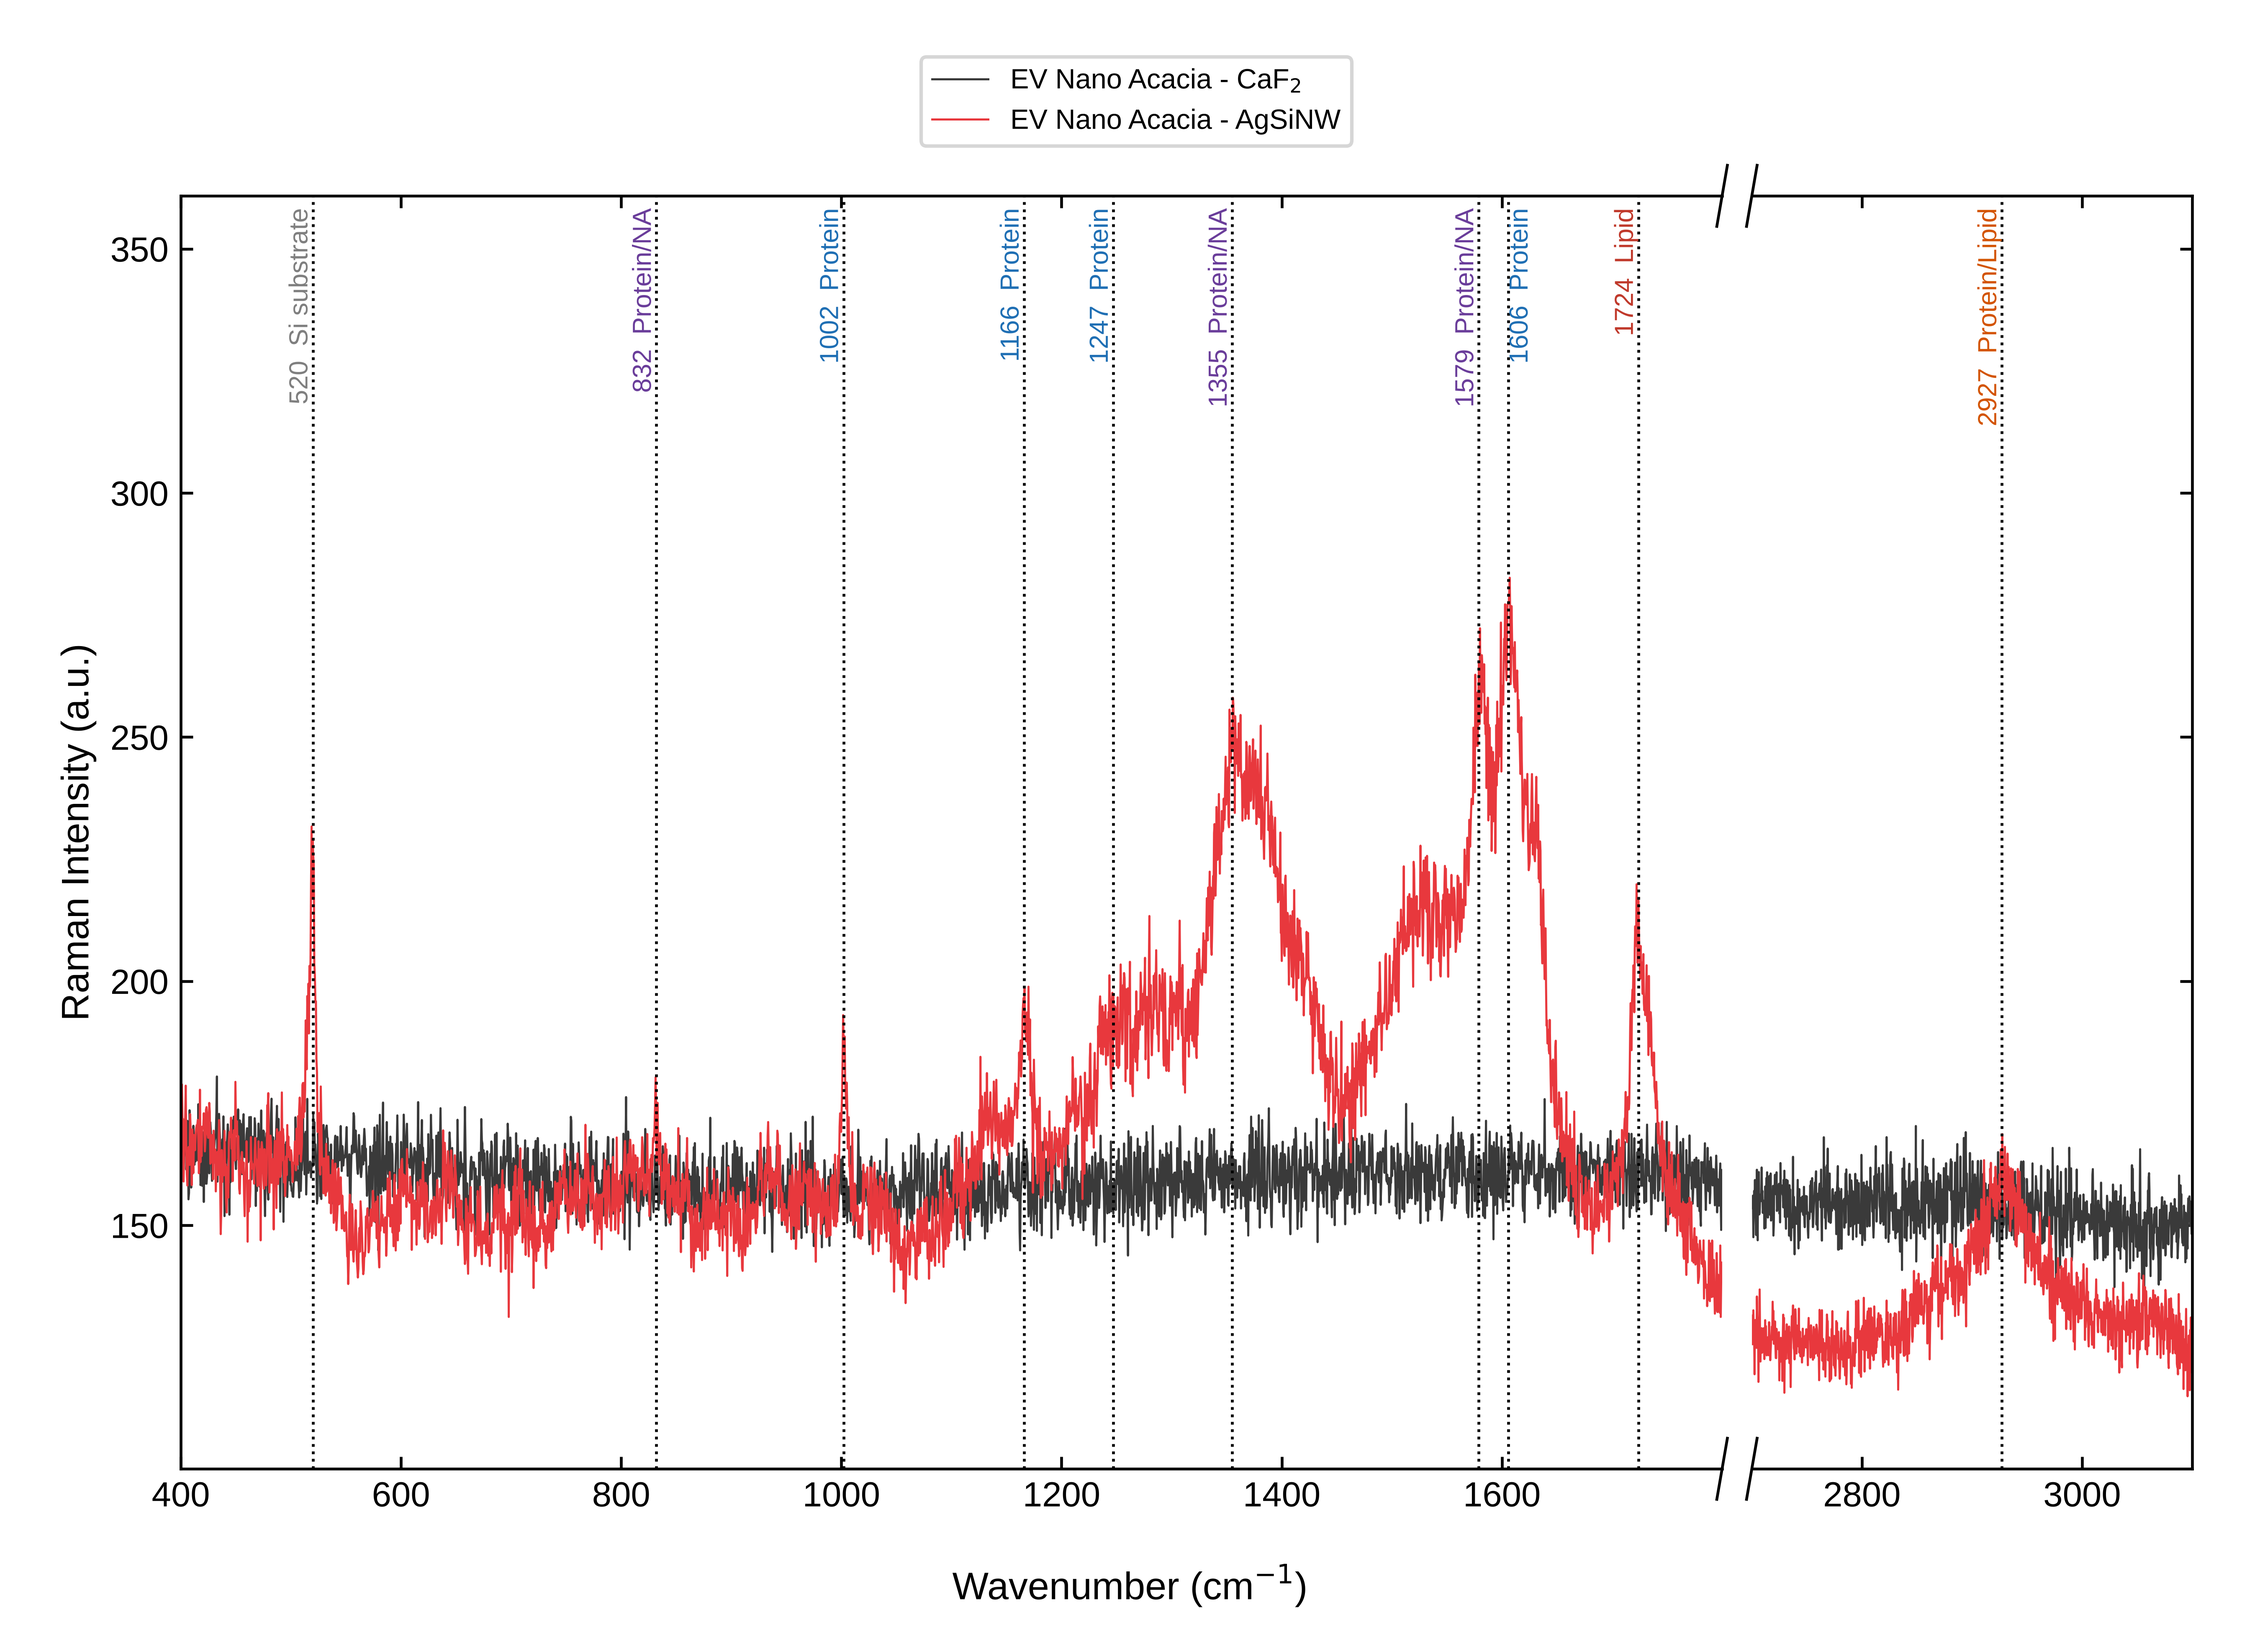
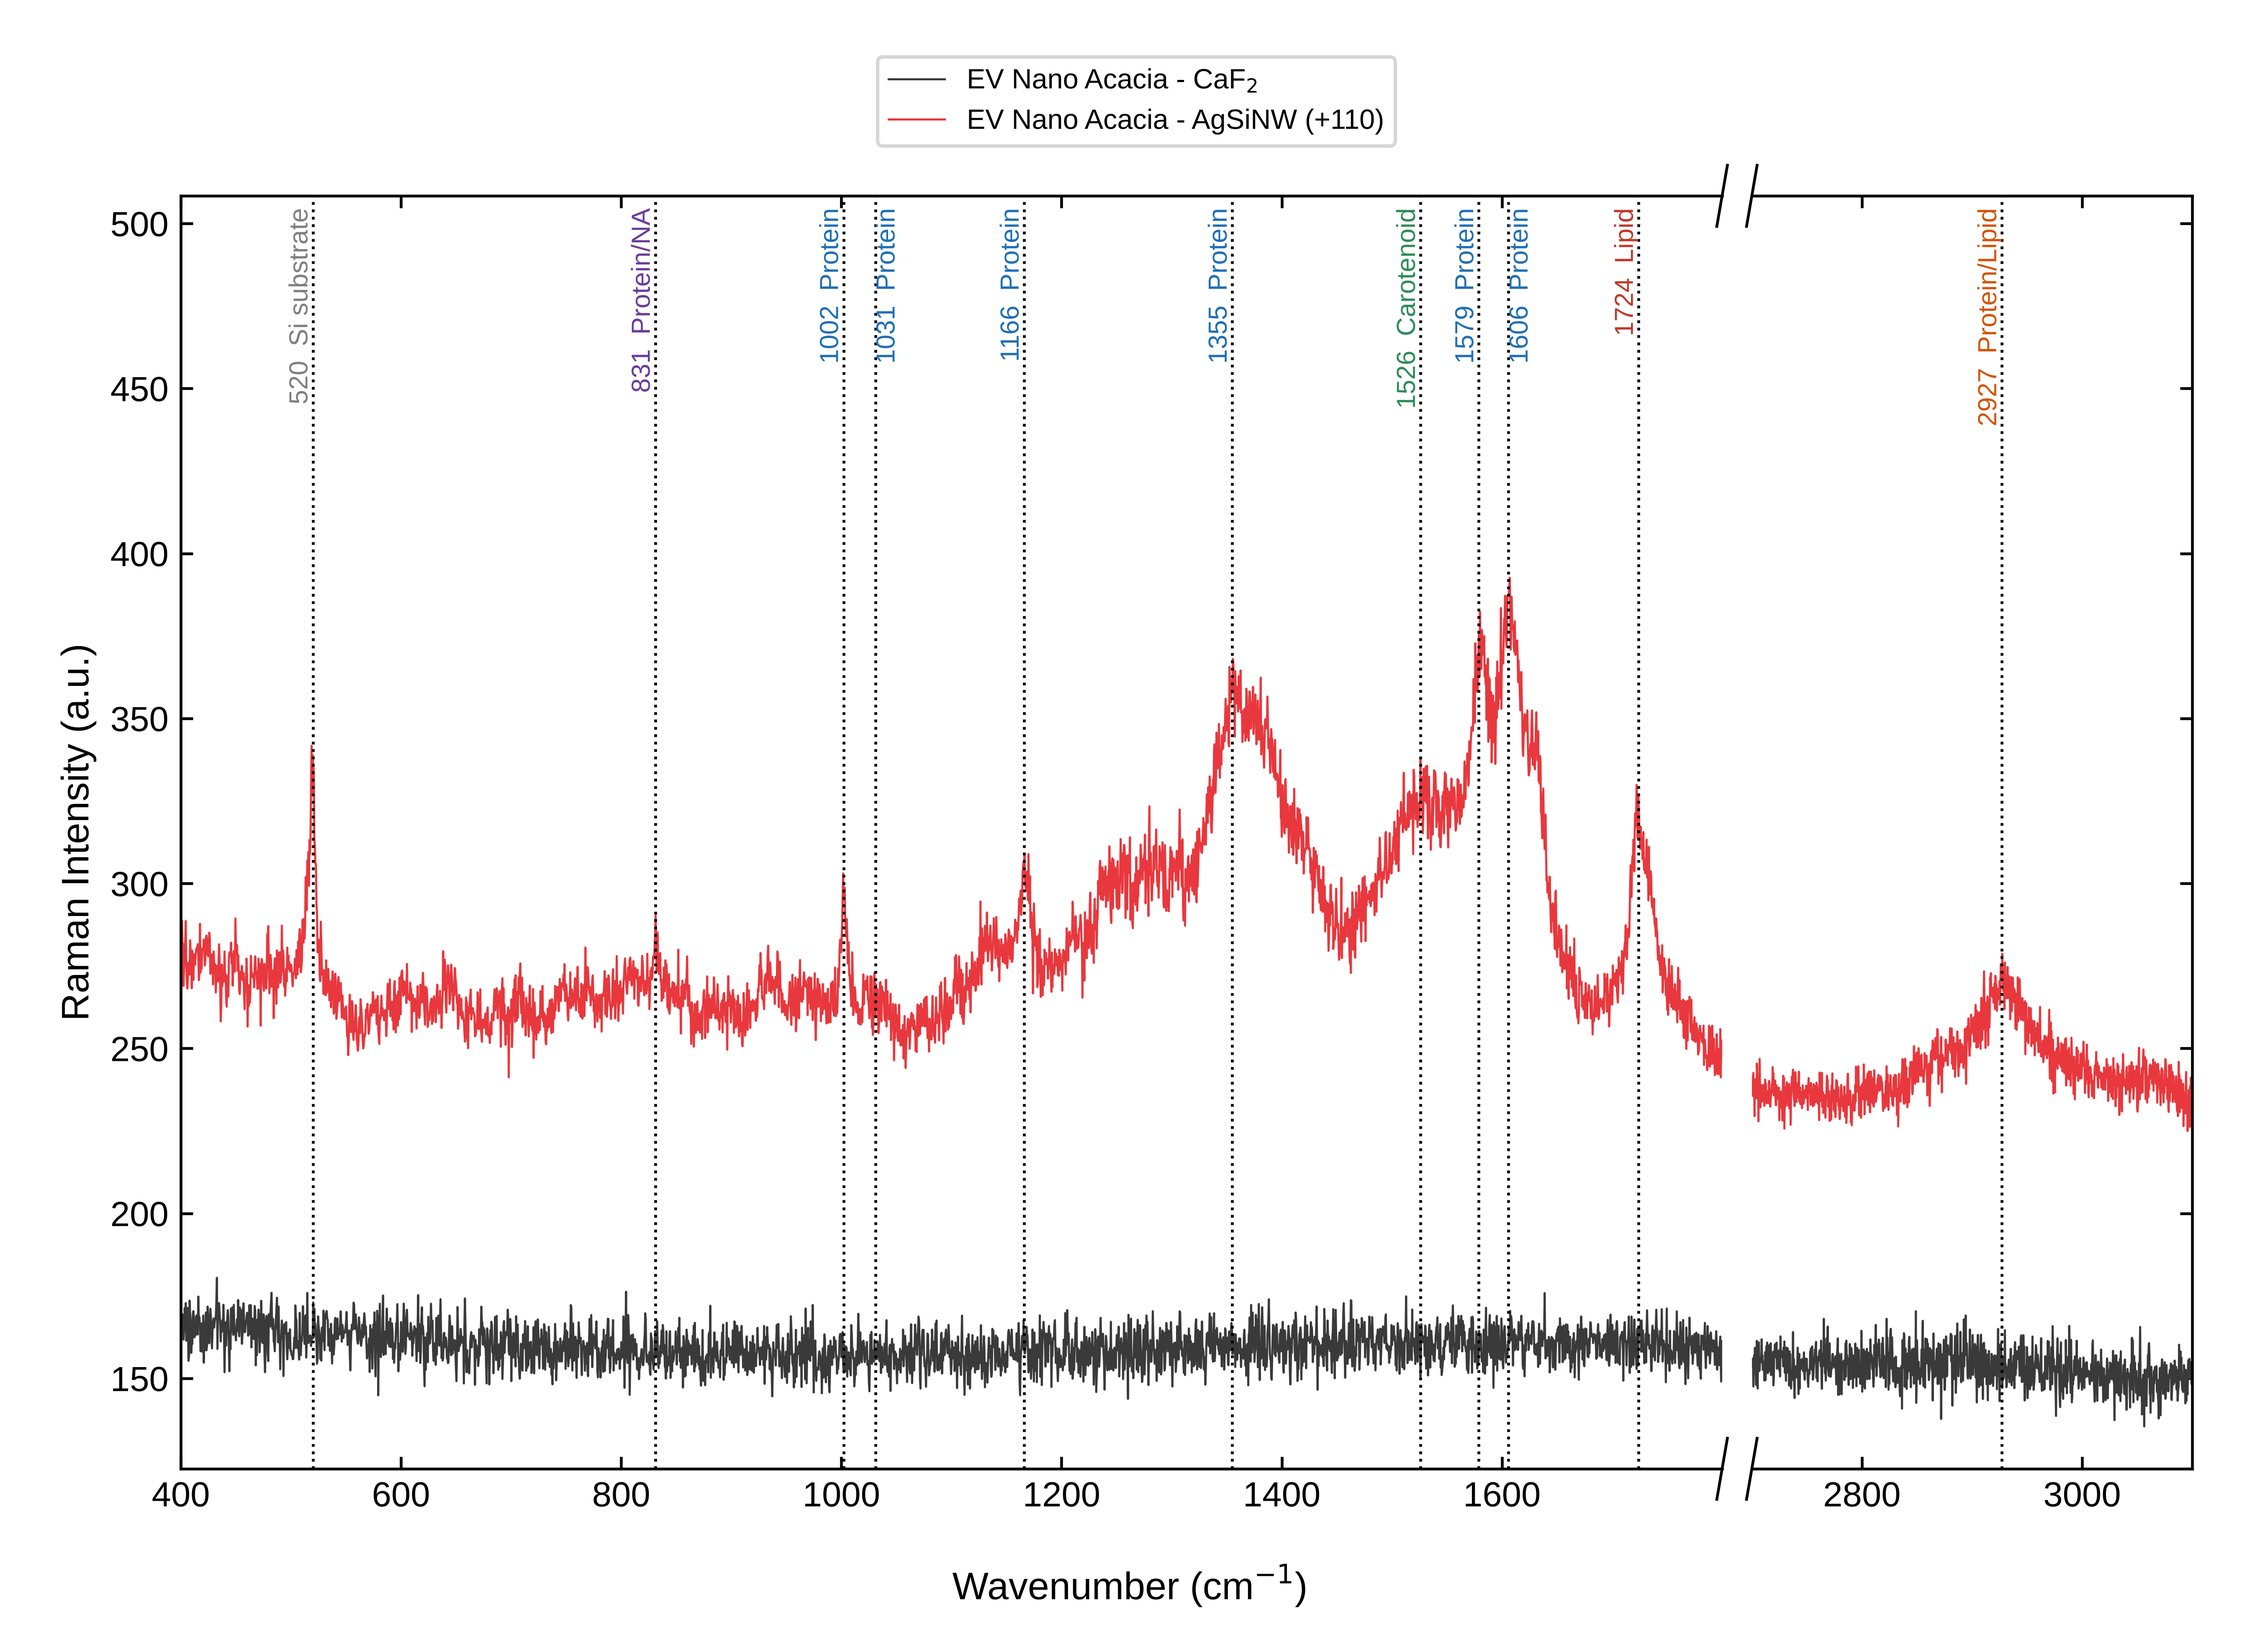
Match S2 figure to S1 paper style; use S2 peak set, declared AgSiNW offset
Claude-Session: https://claude.ai/code/session_01L8hQ8e5u5KmaH4dD9snyRw

diff --git a/EV_Acacia_TwoSpectra.py b/EV_Acacia_TwoSpectra.py
@@ -68,17 +68,20 @@ PEAK_SETS['S1'] = [
     (2936, 'Protein/Lipid', 'CH3 symmetric stretching (2930-2940), mainly proteins', '[P][M][C][G]'),
 ]
 PEAK_SETS['S2'] = [
-    (520,  'Si substrate',  'Crystalline silicon optical phonon (520.7 cm-1 Si band); from SiNW', '[P]'),
-    (831,  'Protein/NA',    'Tyrosine Fermi doublet (828/850) / O-P-O asymmetric stretch (828)', '[M][T]'),
-    (1003, 'Protein',       'Phenylalanine symmetric ring breathing (1002-1004)', '[M][T][G]'),
-    (1166, 'Protein',       'Tyrosine C-H in-plane bending (1170-1175) / C-C, C-N stretch of proteins', '[M][T]'),
-    (1255, 'Protein',       'Amide III (1230-1300)', '[M][T][G]'),
-    (1355, 'Protein/NA',    'Tryptophan (1340-1360) / adenine-guanine ring (1340); broad band', '[M][T]'),
-    (1581, 'Protein/NA',    'Phenylalanine C=C bending (1584) / adenine-guanine ring (1578)', '[M][T]'),
-    (1607, 'Protein',       'Phenylalanine / tyrosine ring C=C stretch (1605-1607)', '[M][T][G]'),
-    (1723, 'Lipid',         'C=O ester stretching of (phospho)lipids (1720-1745)', '[M][T][C]'),
-    (2927, 'Protein/Lipid', 'CH2/CH3 stretching (2925-2935)', '[P][M][C][G]'),
+    (519,  'Si substrate',  'Crystalline silicon optical phonon (520.7 cm-1 Si band); from SiNW', '[P]'),
+    (836,  'Protein/NA',    'Tyrosine Fermi doublet (828/850) / O-P-O asymmetric stretch (828)', '[M][T]'),
+    (1001, 'Protein',       'Phenylalanine symmetric ring breathing (1002-1004)', '[M][T][G]'),
+    (1034, 'Protein',       'Phenylalanine C-H in-plane bending (1030-1034)', '[M][T]'),
+    (1167, 'Protein',       'Tyrosine C-H in-plane bending (1170-1175)', '[M][T]'),
+    (1355, 'Protein',       'Tryptophan / CH deformation (1340-1380); broad band', '[M][T]'),
+    (1520, 'Carotenoid',    'C=C stretching of carotenoids (1510-1530); broad shoulder', '[M][T]'),
+    (1582, 'Protein',       'Phenylalanine C=C bending (1584)', '[M][T]'),
+    (1602, 'Protein',       'Phenylalanine / tyrosine ring C=C stretch (1600-1607)', '[M][T][G]'),
+    (1725, 'Lipid',         'C=O ester stretching of (phospho)lipids (1720-1745)', '[M][T][C]'),
+    (2931, 'Protein/Lipid', 'CH2/CH3 stretching (2925-2935)', '[P][M][C][G]'),
 ]
+# constant vertical shift of the AgSiNW trace, display only (stated in legend)
+AG_OFFSET = {'S1': 0, 'S2': 110}[SAMPLE]
 PEAKS = PEAK_SETS[SAMPLE]
 
 C_AG = '#E8383D'     # red  : EV on AgSiNW
@@ -86,7 +89,7 @@ C_CAF2 = '#3A3A3A'   # dark grey : EV on CaF2
 CLASS_COL = {        # label colour by class
     'Protein': '#1F6FB4', 'Protein/NA': '#6A3D9A', 'Nucleic acid': '#8E44AD',
     'Protein/Carb.': '#1F6FB4', 'Lipid/Protein': '#D35400',
-    'Protein/Lipid': '#D35400', 'Lipid': '#C0392B', 'Ag substrate': '#7F7F7F', 'Si substrate': '#7F7F7F',
+    'Protein/Lipid': '#D35400', 'Lipid': '#C0392B', 'Carotenoid': '#2E8B57', 'Ag substrate': '#7F7F7F', 'Si substrate': '#7F7F7F',
 }
 
 # ----------------------------------------------------------------------------
@@ -94,6 +97,7 @@ CLASS_COL = {        # label colour by class
 # ----------------------------------------------------------------------------
 caf2 = np.loadtxt(FILE_CAF2)
 ag = np.loadtxt(FILE_AG)
+ag[:, 1] += AG_OFFSET
 
 # measured peak positions (smoothing only used to locate the maximum)
 ag_s = savgol_filter(ag[:, 1], 11, 3)
@@ -123,13 +127,19 @@ fig, (axL, axR) = plt.subplots(
     gridspec_kw={'width_ratios': [LOW_MAX - LOW_MIN, HIGH_MAX - HIGH_MIN],
                  'wspace': 0.03})
 
-y_min = min(caf2[:, 1].min(), ag[:, 1].min())
-y_max = max(caf2[:, 1].max(), ag[:, 1].max())
+def in_view(d):
+    x = d[:, 0]
+    return d[((x >= LOW_MIN) & (x <= LOW_MAX)) | ((x >= HIGH_MIN) & (x <= HIGH_MAX)), 1]
+
+
+y_min = min(in_view(caf2).min(), in_view(ag).min())
+y_max = max(in_view(caf2).max(), in_view(ag).max())
 y_top = y_max + 0.45 * (y_max - y_min)       # head-room for the rotated labels
 
 for ax, lo, hi in [(axL, LOW_MIN, LOW_MAX), (axR, HIGH_MIN, HIGH_MAX)]:
     for d, col, lab in [(caf2, C_CAF2, 'EV Nano Acacia - CaF$_2$'),
-                        (ag, C_AG, 'EV Nano Acacia - AgSiNW')]:
+                        (ag, C_AG, 'EV Nano Acacia - AgSiNW'
+                         + (f' (+{AG_OFFSET})' if AG_OFFSET else ''))]:
         m = (d[:, 0] >= lo) & (d[:, 0] <= hi)
         ax.plot(d[m, 0], d[m, 1], color=col, lw=0.6, label=lab)
     pos = [r[1] for r in rows]
